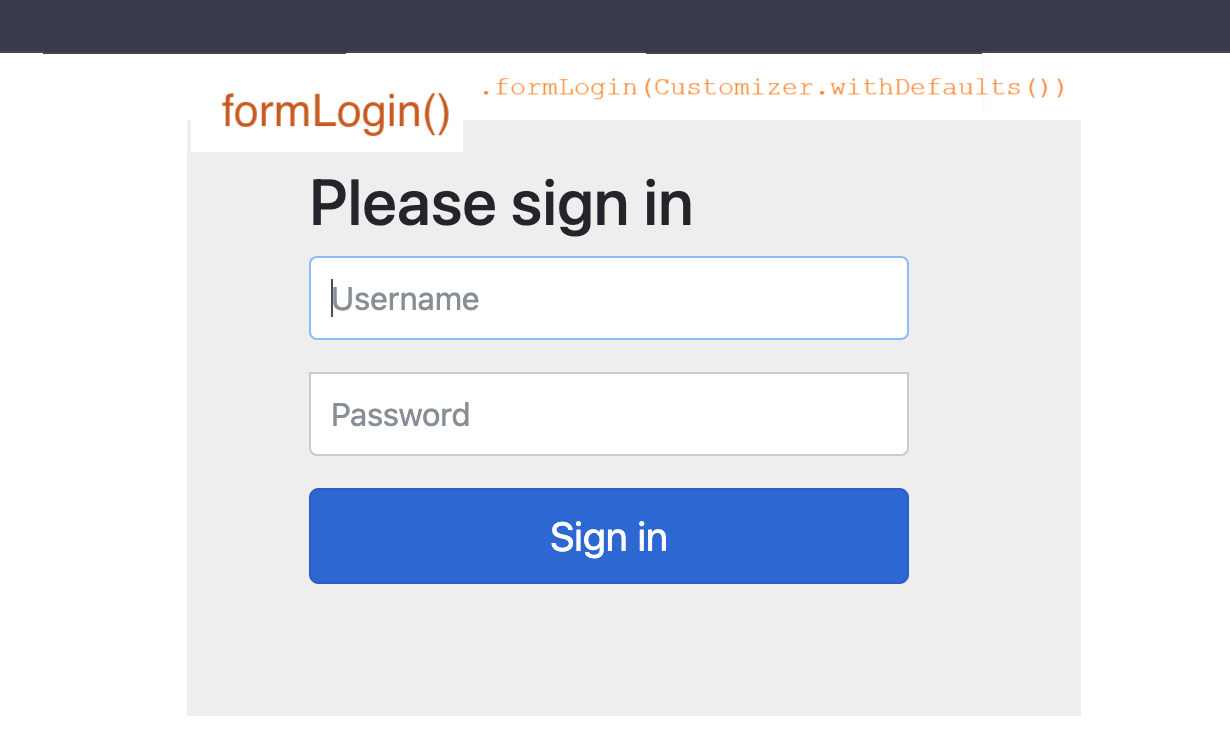
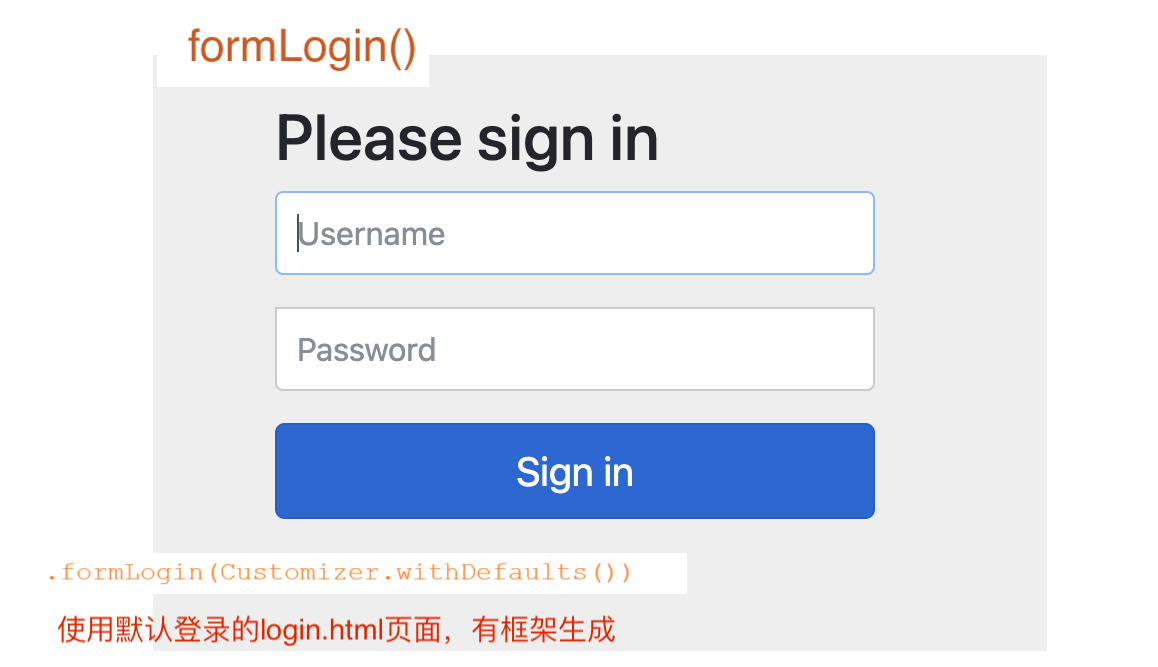
update web security login

diff --git a/spring-web-security-login/form-login/src/main/resources/templates/template.html b/spring-web-security-login/form-login/src/main/resources/templates/template.html
@@ -1,0 +1,30 @@
+<!DOCTYPE html>
+<html lang="en">
+<head>
+    <meta charset="utf-8">
+    <meta name="viewport" content="width=device-width, initial-scale=1, shrink-to-fit=no">
+    <meta name="description" content="">
+    <meta name="author" content="">
+    <title>Please sign in</title>
+    <link href="https://maxcdn.bootstrapcdn.com/bootstrap/4.0.0-beta/css/bootstrap.min.css" rel="stylesheet" integrity="sha384-/Y6pD6FV/Vv2HJnA6t+vslU6fwYXjCFtcEpHbNJ0lyAFsXTsjBbfaDjzALeQsN6M" crossorigin="anonymous">
+    <link href="https://getbootstrap.com/docs/4.0/examples/signin/signin.css" rel="stylesheet" integrity="sha384-oOE/3m0LUMPub4kaC09mrdEhIc+e3exm4xOGxAmuFXhBNF4hcg/6MiAXAf5p0P56" crossorigin="anonymous"/>
+</head>
+<body>
+
+<!-- -->
+
+<div class="container">
+    <form class="form-signin" method="post" action="/login">
+        <h2 class="form-signin-heading">Please sign in</h2>
+        <p>
+            <label for="username" class="sr-only">Username</label>
+            <input type="text" id="username" name="username" class="form-control" placeholder="Username" required autofocus>
+        </p>
+        <p>
+            <label for="password" class="sr-only">Password</label>
+            <input type="password" id="password" name="password" class="form-control" placeholder="Password" required>
+        </p>
+        <button class="btn btn-lg btn-primary btn-block" type="submit">Sign in</button>
+    </form>
+</div>
+</body></html>

diff --git a/spring-web-security-login/form-login/src/main/java/org/example/config/AuthSecurityConfig.java b/spring-web-security-login/form-login/src/main/java/org/example/config/AuthSecurityConfig.java
@@ -23,7 +23,7 @@ public class AuthSecurityConfig {
             requests.requestMatchers("/logout_process").permitAll();
             requests.anyRequest().authenticated();
         }).formLogin((formLogin) -> {
-            formLogin.loginPage("/login")          // The custom login page
+            formLogin.loginPage("/login")          // 自定义login.html页面
                     .usernameParameter("username") // 定义前端表单提交的参数名称
                     .passwordParameter("password") // 页面提供的<input>数据
                     .loginProcessingUrl("/login_process") // The REST API to submit 接受请求的用户名和密码

diff --git a/spring-web-security-login/form-login/src/main/java/org/example/controller/LoginController.java b/spring-web-security-login/form-login/src/main/java/org/example/controller/LoginController.java
@@ -2,17 +2,13 @@ package org.example.controller;
 
 import org.springframework.stereotype.Controller;
 import org.springframework.web.bind.annotation.GetMapping;
-import org.springframework.web.bind.annotation.PostMapping;
 
-// TODO. ThymeleafView 页面解析器
-// - 必须使用Controller注解来加载View页面
-// - 解析静态目录src/main/resources/templates/中的页面
 @Controller
 public class LoginController {
 
+    // 使用自定义的登录页面, 返回自定义的Html页面
     @GetMapping("/login")
     public String login() {
-        // 使用自定义的登录页面
         return "login";
     }
 }
